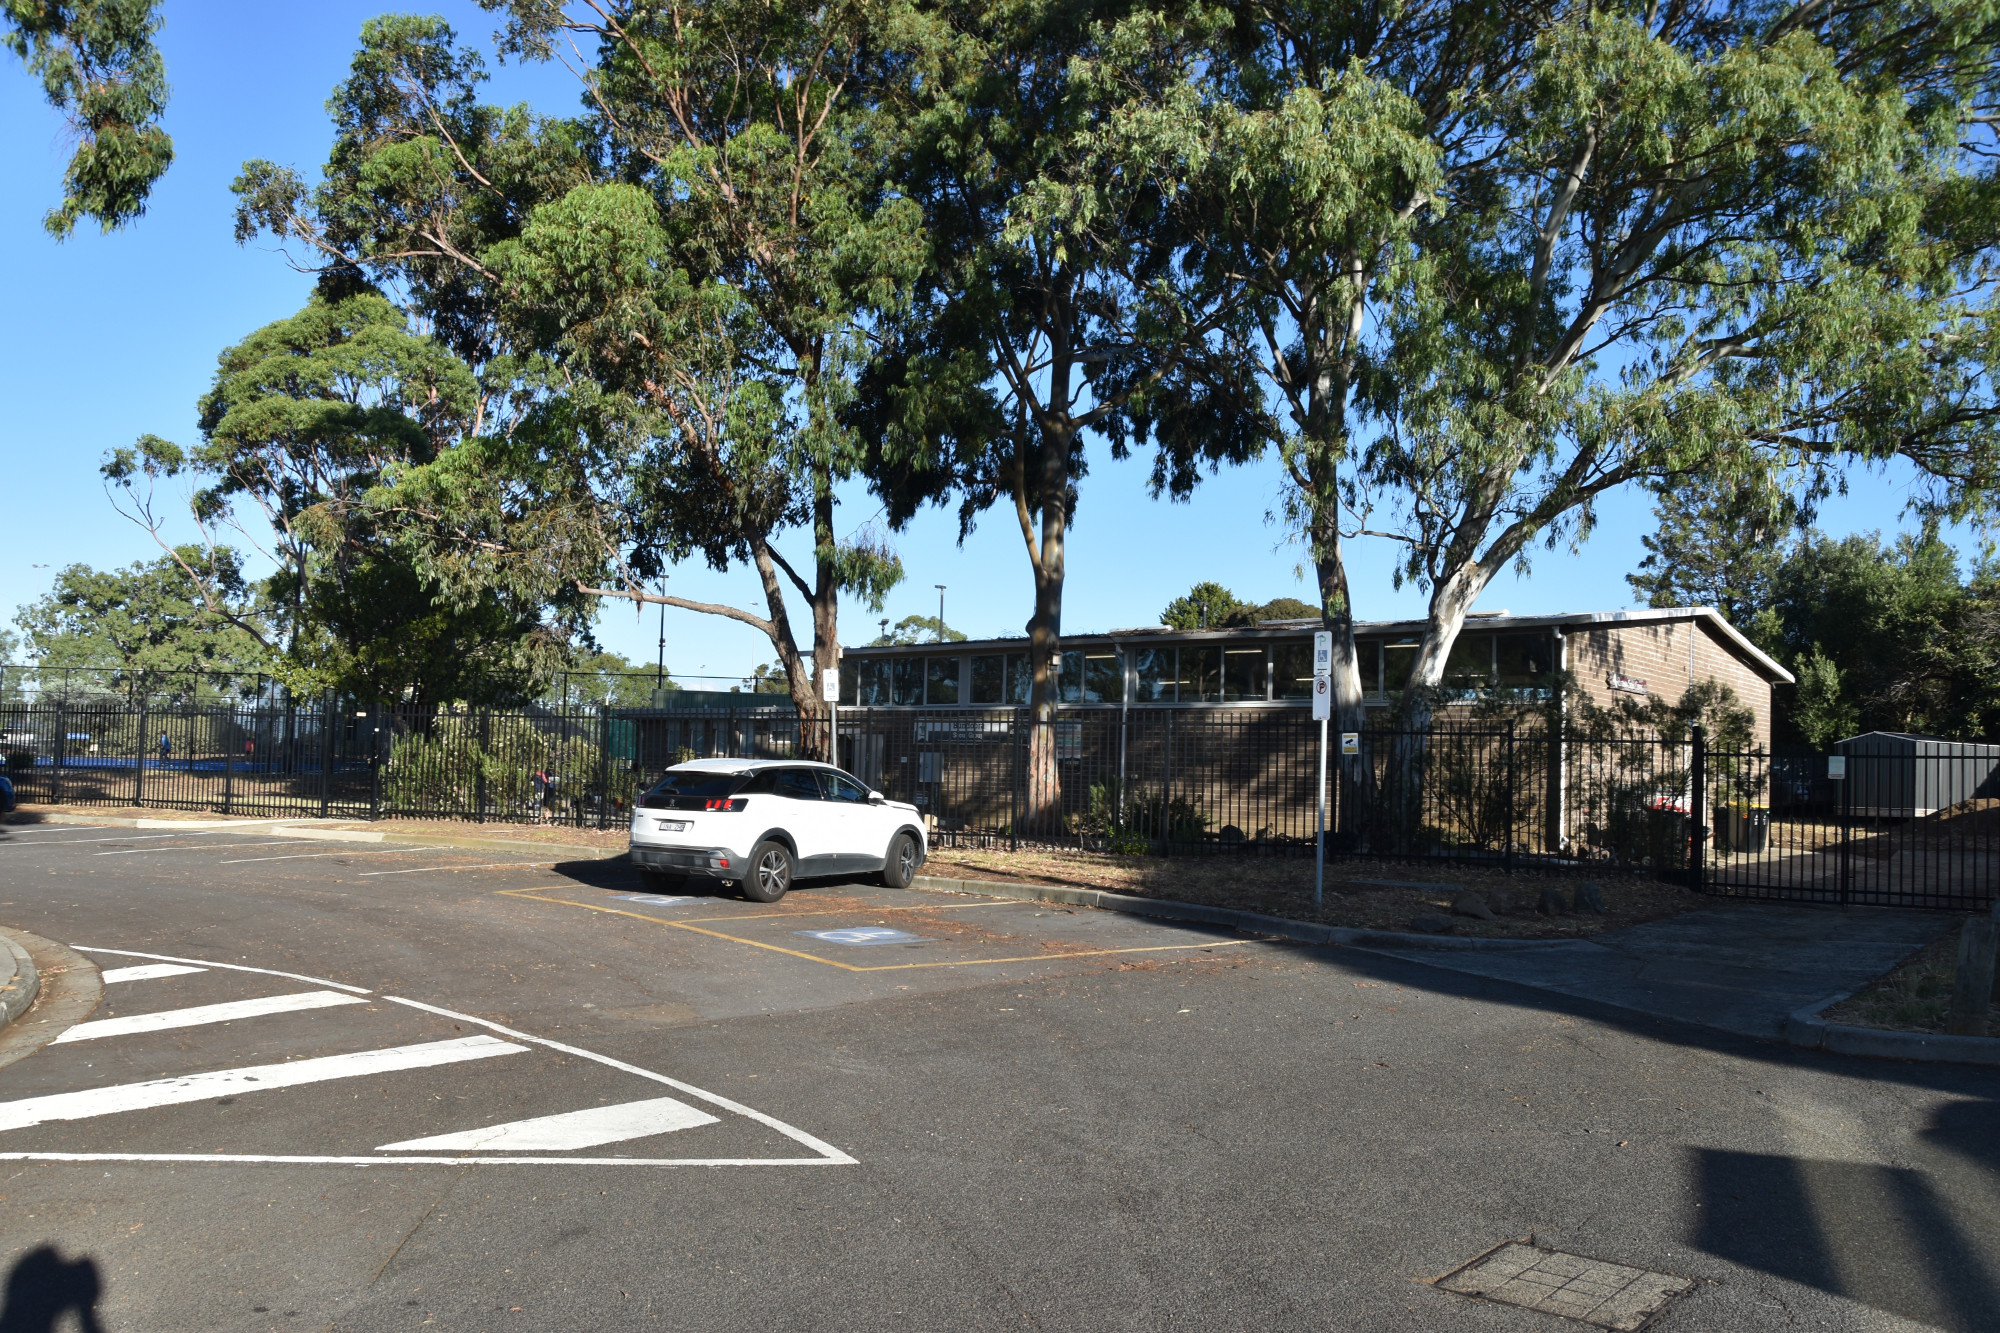
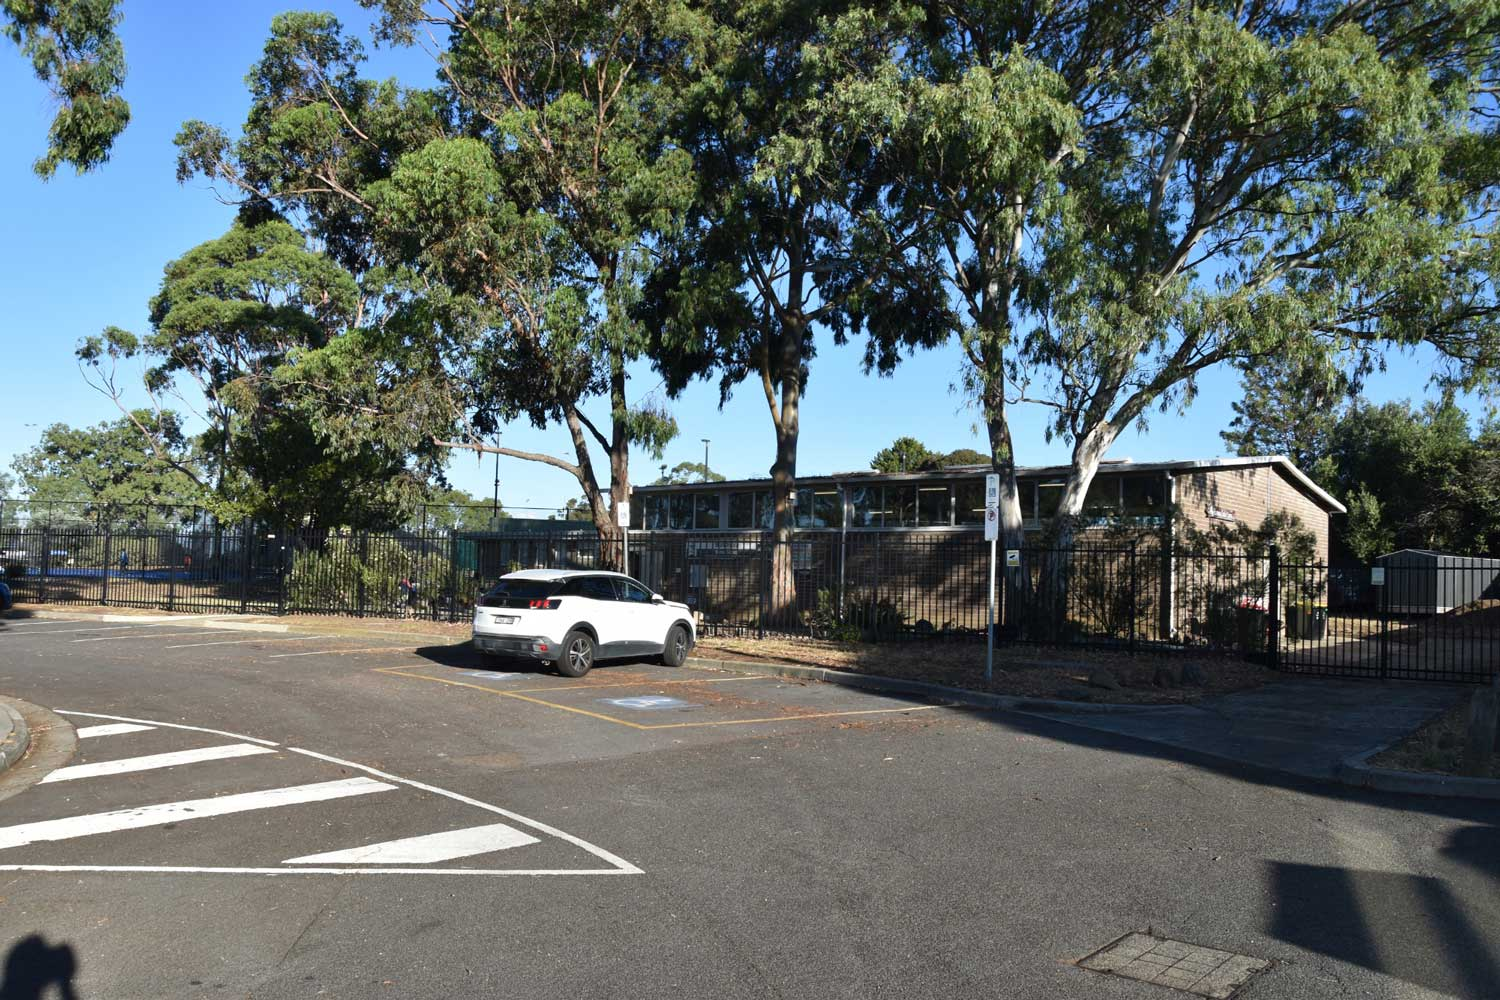
bugfix: reduce google font sizes

diff --git a/_layouts/default.html b/_layouts/default.html
@@ -33,10 +33,10 @@
   <link rel="preconnect" href="https://fonts.googleapis.com" />
   <link rel="preconnect" href="https://fonts.gstatic.com" crossorigin="" />
   <link
-    href="https://fonts.googleapis.com/css2?family=Nunito+Sans:ital,opsz,wght@0,6..12,200..1000;1,6..12,200..1000&display=swap"
+    href="https://fonts.googleapis.com/css2?family=Nunito+Sans:ital,opsz,wght@0,6..12,400..800;1,6..12,400..800&display=swap"
     rel="stylesheet" />
   <link
-    href="https://fonts.googleapis.com/css2?family=Material+Symbols+Outlined:opsz,wght,FILL,GRAD@20..48,100..700,0..1,-50..200&display=swap"
+    href="https://fonts.googleapis.com/css2?family=Material+Symbols+Outlined:opsz,wght,FILL,GRAD@20..48,400,0..1,0&display=swap"
     rel="stylesheet" />
 
   <!-- GSAP for premium animations -->

diff --git a/index.md b/index.md
@@ -97,7 +97,7 @@ image: "/uploads/hero/aerial.jpg"
 <section class="max-w-[1440px] mx-auto px-4 lg:px-8 mb-12" data-gsap="reveal">
   <div class="relative bg-surface-container-high rounded-[3rem] overflow-hidden shadow-ambient-lg border border-outline-variant/20">
     <div class="absolute inset-0 z-0">
-      <img src="/uploads/hall-hire/Main Hall 2.jpg" alt="Bundoora Scout Hall Interior" class="w-full h-full object-cover opacity-20 mix-blend-overlay">
+      <img src="/uploads/hall-hire/Main-Hall-2.jpg" alt="Bundoora Scout Hall Interior" class="w-full h-full object-cover opacity-20 mix-blend-overlay">
       <div class="absolute inset-0 bg-gradient-to-br from-primary/10 via-transparent to-secondary/5"></div>
     </div>
     
@@ -127,12 +127,12 @@ image: "/uploads/hero/aerial.jpg"
       <div class="w-full md:w-1/2 p-8 md:pr-16 lg:pr-24 hidden md:block">
         <div class="grid grid-cols-2 gap-4">
           <div class="space-y-4">
-            <img src="/uploads/hall-hire/Main Hall 1.jpg" alt="Hall interior" class="rounded-3xl shadow-lg w-full aspect-square object-cover transform -rotate-2 hover:rotate-0 transition-transform duration-500">
-            <img src="/uploads/hall-hire/Kitchen 1.jpg" alt="Kitchen" class="rounded-3xl shadow-lg w-full aspect-video object-cover transform rotate-3 hover:rotate-0 transition-transform duration-500">
+            <img src="/uploads/hall-hire/Main-Hall-1.jpg" alt="Hall interior" class="rounded-3xl shadow-lg w-full aspect-square object-cover transform -rotate-2 hover:rotate-0 transition-transform duration-500">
+            <img src="/uploads/hall-hire/Kitchen-1.jpg" alt="Kitchen" class="rounded-3xl shadow-lg w-full aspect-video object-cover transform rotate-3 hover:rotate-0 transition-transform duration-500">
           </div>
           <div class="space-y-4 pt-12">
             <img src="/uploads/hall-hire/Parking.jpg" alt="Parking" class="rounded-3xl shadow-lg w-full aspect-video object-cover transform rotate-2 hover:rotate-0 transition-transform duration-500">
-            <img src="/uploads/hall-hire/Bio Garden.jpg" alt="Garden" class="rounded-3xl shadow-lg w-full aspect-square object-cover transform -rotate-3 hover:rotate-0 transition-transform duration-500">
+            <img src="/uploads/hall-hire/Bio-Garden.jpg" alt="Garden" class="rounded-3xl shadow-lg w-full aspect-square object-cover transform -rotate-3 hover:rotate-0 transition-transform duration-500">
           </div>
         </div>
       </div>